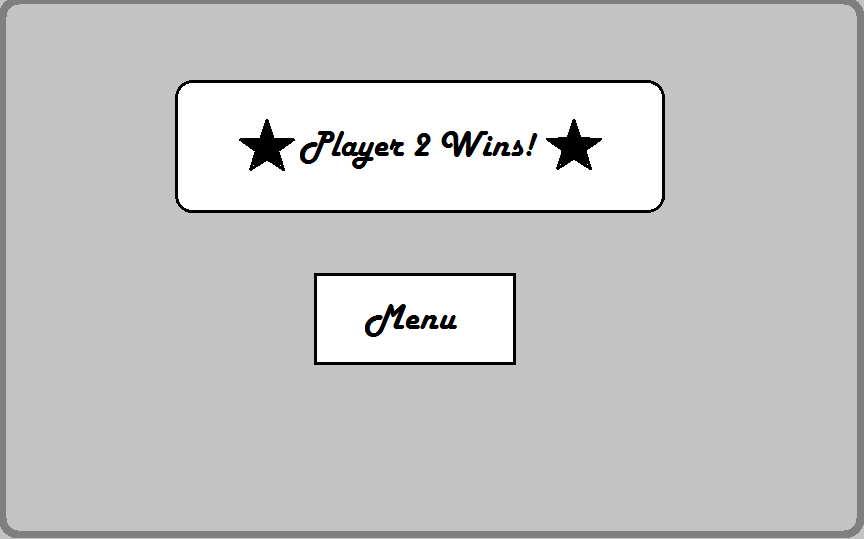
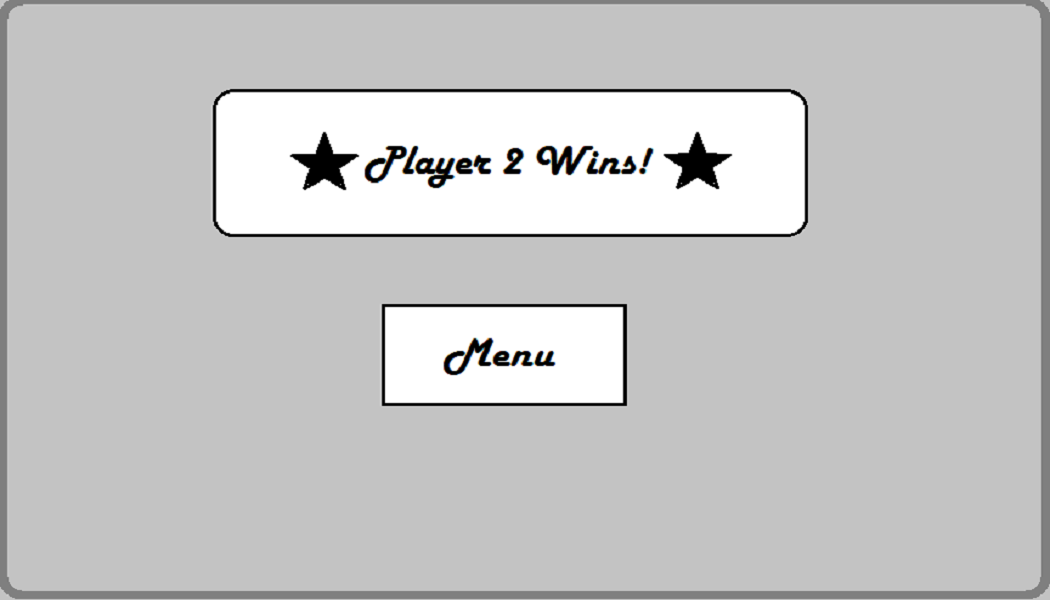
Resized playing area

diff --git a/8_ball_pool.py b/8_ball_pool.py
@@ -1,9 +1,12 @@
 # Github repository: https://github.com/matt2uy/8-Ball-Pool
 # To do:
     # Physics: "Fixed angle of the cue ball after impact"..."Fixed ball collisions bug (check out the '.in contact; variable"
-        #..."maybe check the ball/wall collisions for every pixel of movement "..."ball guide line"
-    # Gameplay: "End game scenarios"..."
-    # Presentation: "Player names?"...
+        #..."maybe check the ball/wall collisions for every pixel of movement "..."ball guide line"..."Fix ball to wall collisions"
+
+       ################## below: write the text/info on the board? and keep it there for 5 secs/until the next shot? ###########
+    # sounds
+    # Gameplay: "End game scenarios"..."Expand on ball in hand scenarios - when the opponent doesn't touch their own ball"
+    # Presentation: "Which the players which player is which colour at the start"..."Say which player's turn it is on the scoreboard"
 # Name: Matthew Uy
 # Date: January 22, 2016
 # Assignment: CPT - "8 Ball Pool"
@@ -59,8 +62,8 @@ class Ball():
     def __init__(self):
         self._registry.append(self)
         self.colour = "unspecified"
-        self.x = 205
-        self.y = 200
+        self.x = 380
+        self.y = 300
         self.direction = 0 # angle is represented in degrees
         self.speed = 0
         self.pocketed = False
@@ -68,101 +71,139 @@ class Ball():
     
 # create an instance of each ball on the table
 cue_ball = Ball()
-cue_ball.x = 205 # exactly on the left third
-cue_ball.y = 200
+cue_ball.x = 380 # exactly on the left third
+cue_ball.y = 300
 
 eight_ball = Ball() # third column, second row
 # temp values for testing:
-eight_ball.x = 295
-eight_ball.y = 200
-#eight_ball.x = 495 # exactly on the right third x-value
-#eight_ball.y = 200
+eight_ball.x = 470
+eight_ball.y = 300
+#eight_ball.x = 670 # exactly on the right third x-value
+#eight_ball.y = 300
 
 # player one's balls (red)     # maybe make a function to make initializing the 16 balls a bit shorter
 red_ball_1 = Ball() # first column, first row
 red_ball_1.colour = "Red"
-red_ball_1.x = 467 
-red_ball_1.y = 200
+red_ball_1.x = 642 
+red_ball_1.y = 300
 
 red_ball_2 = Ball() # second column, first row
 red_ball_2.colour = "Red"
-red_ball_2.x = 481
-red_ball_2.y = 193
+red_ball_2.x = 656
+red_ball_2.y = 293
 
 red_ball_3 = Ball() # third column, third row
 red_ball_3.colour = "Red"
-red_ball_3.x = 495
-red_ball_3.y = 214
+red_ball_3.x = 670
+red_ball_3.y = 314
 
 red_ball_4 = Ball() # fourth column, first row
 red_ball_4.colour = "Red"
-red_ball_4.x = 509
-red_ball_4.y = 178
+red_ball_4.x = 684
+red_ball_4.y = 278
 
 red_ball_5 = Ball() # fourth column, third row
 red_ball_5.colour = "Red"
-red_ball_5.x = 509
-red_ball_5.y = 206
+red_ball_5.x = 684
+red_ball_5.y = 306
 
 red_ball_6 = Ball() # fifth column, first row
 red_ball_6.colour = "Red"
-red_ball_6.x = 523
-red_ball_6.y = 171
+red_ball_6.x = 698
+red_ball_6.y = 271
 
 red_ball_7 = Ball() # fifth column, third row
 red_ball_7.colour = "Red"
-red_ball_7.x = 523
-red_ball_7.y = 199
+red_ball_7.x = 698
+red_ball_7.y = 299
 
 # player two's balls (blue)
 blue_ball_1 = Ball() # second column, second row
 blue_ball_1.colour = "Blue"
-blue_ball_1.x = 481
-blue_ball_1.y = 207
+blue_ball_1.x = 656
+blue_ball_1.y = 307
 
 blue_ball_2 = Ball()
-blue_ball_2.x = 495  # third column, first row
 blue_ball_2.colour = "Blue"
-blue_ball_2.y = 186
+blue_ball_2.x = 670  # third column, first row
+blue_ball_2.y = 286
 
 blue_ball_3 = Ball() # fourth column, second row
 blue_ball_3.colour = "Blue"
-blue_ball_3.x = 509
-blue_ball_3.y = 192
+blue_ball_3.x = 684
+blue_ball_3.y = 292
 
 blue_ball_4 = Ball() # fourth column, fourth row
 blue_ball_4.colour = "Blue"
-blue_ball_4.x = 509
-blue_ball_4.y = 220
+blue_ball_4.x = 684
+blue_ball_4.y = 320
 
 blue_ball_5 = Ball() # fifth column, second row
 blue_ball_5.colour = "Blue"
-blue_ball_5.x = 523
-blue_ball_5.y = 185
+blue_ball_5.x = 698
+blue_ball_5.y = 285
 
 blue_ball_6 = Ball() # fifth column, fourth row
 blue_ball_6.colour = "Blue"
-blue_ball_6.x = 523
-blue_ball_6.y = 213
+blue_ball_6.x = 698
+blue_ball_6.y = 313
 
 blue_ball_7 = Ball() # fifth column, fifth row
 blue_ball_7.colour = "Blue"
-blue_ball_7.x = 523
-blue_ball_7.y = 227
+blue_ball_7.x = 698
+blue_ball_7.y = 327
 
 ### Drawing Functions ###
+def draw_menu(game_in_progress, show_instructions):
+    # get mouse position and click status
+    mouse_x, mouse_y = pygame.mouse.get_pos()
+    mouse_left = get_mouse_press()
+
+    if show_instructions == False:
+        # if mouse is hovering over a button, then highlight that button
+        if mouse_x > 410 and mouse_x < 595 and mouse_y > 295 and mouse_y < 350:     # start game
+            myimage = pygame.image.load("Images/menu_play.png")
+            if mouse_left == True:
+                game_in_progress = True
+                pygame.mouse.set_pos([100,200]) # set mouse to proper starting position
+        elif mouse_x > 410 and mouse_x < 595 and mouse_y > 365 and mouse_y < 420:   # show instructions
+            myimage = pygame.image.load("Images/menu_instructions.png")
+            if mouse_left == True:
+                show_instructions = True
+        elif mouse_x > 410 and mouse_x < 595 and mouse_y > 435 and mouse_y < 490:   # exit game
+            myimage = pygame.image.load("Images/menu_quit.png")
+            if mouse_left == True:
+                pygame.quit()
+        else:
+            myimage = pygame.image.load("Images/menu_unselected.png")
+    else: # show the instructions
+        if mouse_x > 30 and mouse_x < 240 and mouse_y > 30 and mouse_y < 90:     # start game
+            myimage = pygame.image.load("Images/instructions_selected.png")
+            if mouse_left == True:
+                show_instructions = False
+        else:
+            myimage = pygame.image.load("Images/instructions.png")
+        
+    # load and draw the menu
+    imagerect = myimage.get_rect()
+    screen.fill(BLACK)
+    screen.blit(myimage, imagerect)
+    pygame.display.flip()
+
+    return game_in_progress, show_instructions
+
 def draw_static_objects():
     # Draw the playing surface
-    pygame.draw.rect(screen, GREEN, [50, 50, 600, 300], 0)
+    pygame.draw.rect(screen, GREEN, [225, 150, 600, 300], 0)
     # Draw the border/ledge?
-    pygame.draw.rect(screen, BROWN, [50, 50, 600, 300], 20)
+    pygame.draw.rect(screen, BROWN, [225, 150, 600, 300], 20)
     # Draw the pockets
-    pygame.draw.circle(screen, BLACK, (60, 60), 12, 0)      # top left
-    pygame.draw.circle(screen, BLACK, (350, 60), 12, 0)     # top middle
-    pygame.draw.circle(screen, BLACK, (640, 60), 12, 0)     # top right
-    pygame.draw.circle(screen, BLACK, (60, 340), 12, 0)     # bottom left
-    pygame.draw.circle(screen, BLACK, (350, 340), 12, 0)    # bottom middle
-    pygame.draw.circle(screen, BLACK, (640, 340), 12, 0)    # bottom right
+    pygame.draw.circle(screen, BLACK, (235, 160), 12, 0)      # top left
+    pygame.draw.circle(screen, BLACK, (525, 160), 12, 0)     # top middle
+    pygame.draw.circle(screen, BLACK, (815, 160), 12, 0)     # top right
+    pygame.draw.circle(screen, BLACK, (235, 440), 12, 0)     # bottom left
+    pygame.draw.circle(screen, BLACK, (525, 440), 12, 0)    # bottom middle
+    pygame.draw.circle(screen, BLACK, (815, 440), 12, 0)    # bottom right
 
 def draw_scoreboard():
     num_of_red_left = 0
@@ -177,11 +218,11 @@ def draw_scoreboard():
                 
     # draw the red balls left
     for ball in range(num_of_red_left):
-        pygame.draw.circle(screen, RED, (100+ball*20, 20), 7, 0)
+        pygame.draw.circle(screen, RED, (275+ball*20, 120), 7, 0)
     
     # draw the blue balls left
     for ball in range(num_of_blue_left):
-        pygame.draw.circle(screen, BLUE, (500+ball*20, 20), 7, 0)
+        pygame.draw.circle(screen, BLUE, (675+ball*20, 120), 7, 0)
 
 def draw_balls():
     # draw the cue and eight balls
@@ -278,29 +319,28 @@ def convert_polar_coordinates_to_cartesian(x, y, angle, length):
     y += length * math.sin(math.radians(angle))
     return x, y
 
-
 def ball_to_cushion_collision(ball_direction, ball_x, ball_y):                
     # hit the top cushion
-    if ball_y < 72:
+    if ball_y < 172:
         if ball_direction > 270: # ball incoming from the left
             ball_direction = 360 - ball_direction
         else:                    # ball coming from the right
             ball_direction = 360 - ball_direction
             
     # hit the bottom cushion
-    if ball_y > 330:
+    if ball_y > 430:
         if ball_direction < 90: # ball incoming from the left
             ball_direction = 360 - ball_direction
         else:                   # ball coming from the right                  ### problem with all sides -> the ball sometimes sticks at very low angles of reflection -> double bounces?
             ball_direction = 360 - ball_direction
     # hit the left cushion
-    if ball_x < 72:
+    if ball_x < 245:
         if ball_direction > 180: # ball incoming from the bottom
             ball_direction += 90
         else:                   # ball coming from the top
             ball_direction -= 90
     # hit the right cushion
-    if ball_x > 630:
+    if ball_x > 805:
         if ball_direction > 180: # ball incoming from the bottom
             ball_direction -= 90
         else:                   # ball coming from the top     
@@ -332,23 +372,23 @@ def ball_to_ball_collision(ball_direction, ball_speed, ball_x, ball_y):
 def check_if_ball_pocketed(ball_x, ball_y):
     ball_pocketed = False # maght not be necessary, because it is assumed the only the unpocketed ball instances go through  'manage_ball_status()', and in turn, this function.
     # check the top left pocket
-    if ball_x > 50 and ball_x < 70 and ball_y > 60 and ball_y < 80:
+    if ball_x > 225 and ball_x < 245 and ball_y > 160 and ball_y < 180:
         # check to see if the ball is touches a 20x20 px zone ## may need to keep in mind that the x and y values of a ball may be at the top right of the sprite.
         ball_pocketed = True
     # check the top middle pocket
-    elif ball_x > 350 and ball_x < 370 and ball_y > 60 and ball_y < 80:
+    elif ball_x > 525 and ball_x < 545 and ball_y > 160 and ball_y < 180:
         ball_pocketed = True
     # check the top right pocket
-    elif ball_x > 630 and ball_x < 650 and ball_y > 60 and ball_y < 80:
+    elif ball_x > 805 and ball_x < 825 and ball_y > 160 and ball_y < 180:
         ball_pocketed = True
     # check the bottom right pocket
-    elif ball_x > 630 and ball_x < 650 and ball_y > 320 and ball_y < 340:
+    elif ball_x > 805 and ball_x < 825 and ball_y > 420 and ball_y < 440:
         ball_pocketed = True
     # check the bottom middle pocket
-    elif ball_x > 350 and ball_x < 370 and ball_y > 320 and ball_y < 340:
+    elif ball_x > 565 and ball_x < 545 and ball_y > 420 and ball_y < 440:
         ball_pocketed = True
     # check the bottom left pocket
-    elif ball_x > 50 and ball_x < 70 and ball_y > 320 and ball_y < 340:
+    elif ball_x > 225 and ball_x < 245 and ball_y > 420 and ball_y < 440:
         ball_pocketed = True
         
     return ball_pocketed
@@ -386,13 +426,12 @@ def check_if_balls_moving():
 def ball_in_hand():
     # reset cue ball variables
     cue_ball.pocketed = False
-    cue_ball.x = 205
-    cue_ball.y = 200
+    cue_ball.x = 380
+    cue_ball.y = 300
     cue_ball.speed = 0
     cue_ball.direction = 0
     # reset mouse position
-    pygame.mouse.set_pos([100,200])
-
+    pygame.mouse.set_pos([275,300])
     
 def check_if_game_over(game_in_progress, current_player_turn):
     # check if escape key is pressed
@@ -401,6 +440,7 @@ def check_if_game_over(game_in_progress, current_player_turn):
         if event.type == pygame.KEYDOWN:
             if event.key == pygame.K_ESCAPE:
                 game_in_progress = False
+
 
     # check if black ball is pocketed
     if eight_ball.pocketed == True:
@@ -435,7 +475,6 @@ def check_if_game_over(game_in_progress, current_player_turn):
         
     return game_in_progress
 
-
 def determine_player_turn(current_player_turn, current_shot_count, previous_shot_count, ball_pocketed_in_this_shot):
     # confirm that another shot has been made
     if previous_shot_count < current_shot_count:
@@ -453,15 +492,15 @@ def determine_player_turn(current_player_turn, current_shot_count, previous_shot
 
     # Draw an indicator, showing which player's turn it is
     if current_player_turn == "Red":
-        pygame.draw.rect(screen, RED, [338, 7, 25, 25], 0)
+        pygame.draw.rect(screen, RED, [513, 107, 25, 25], 0)
     elif current_player_turn == "Blue":
-        pygame.draw.rect(screen, BLUE, [338, 7, 25, 25], 0)
+        pygame.draw.rect(screen, BLUE, [513, 107, 25, 25], 0)
 
     return current_player_turn, current_shot_count, previous_shot_count, ball_pocketed_in_this_shot
 
 pygame.init()
 # Set the width and height of the screen [width, height]
-size = (700, 400)
+size = (1050, 600)
 screen = pygame.display.set_mode(size)
 pygame.display.set_caption("8 Ball Pool")
 # Loop until the user clicks the close button.
@@ -478,40 +517,7 @@ while not done:
 
     # Show the menu
     if game_in_progress == False:
-        # get mouse position and click status
-        mouse_x, mouse_y = pygame.mouse.get_pos()
-        mouse_left = get_mouse_press()
-
-        if show_instructions == False:
-            # if mouse is hovering over a button, then highlight that button
-            if mouse_x > 270 and mouse_x < 400 and mouse_y > 195 and mouse_y < 235:     # start game
-                myimage = pygame.image.load("Images/menu_play.png")
-                if mouse_left == True:
-                    game_in_progress = True
-                    pygame.mouse.set_pos([100,200]) # set mouse to proper starting position
-            elif mouse_x > 270 and mouse_x < 400 and mouse_y > 240 and mouse_y < 285:   # show instructions
-                myimage = pygame.image.load("Images/menu_instructions.png")
-                if mouse_left == True:
-                    show_instructions = True
-            elif mouse_x > 270 and mouse_x < 400 and mouse_y > 290 and mouse_y < 335:   # exit game
-                myimage = pygame.image.load("Images/menu_quit.png")
-                if mouse_left == True:
-                    pygame.quit()
-            else:
-                myimage = pygame.image.load("Images/menu_unselected.png")
-        else: # show the instructions
-            if mouse_x > 20 and mouse_x < 160 and mouse_y > 20 and mouse_y < 65:     # start game
-                myimage = pygame.image.load("Images/instructions_selected.png")
-                if mouse_left == True:
-                    show_instructions = False
-            else:
-                myimage = pygame.image.load("Images/instructions.png")
-        
-        # load and draw the menu
-        imagerect = myimage.get_rect()
-        screen.fill(BLACK)
-        screen.blit(myimage, imagerect)
-        pygame.display.flip()
+        game_in_progress, show_instructions = draw_menu(game_in_progress, show_instructions)
     
     elif game_in_progress == True:       
         ### Drawing the playing area ###
@@ -545,7 +551,6 @@ while not done:
                     if cue_ball_dragged == True:
                             cue_ball.x = mouse_x
                             cue_ball.y = mouse_y
-                            print "ball has been clicked while ball in hand"
 
 
                 else:
@@ -639,6 +644,7 @@ while not done:
         # switch player turn if necessary
         current_player_turn, current_shot_count, previous_shot_count, ball_pocketed_in_this_shot = determine_player_turn(current_player_turn, current_shot_count, previous_shot_count, ball_pocketed_in_this_shot)
     
+
     # --- Go ahead and update the screen with what we've drawn.
     pygame.display.flip()
  
